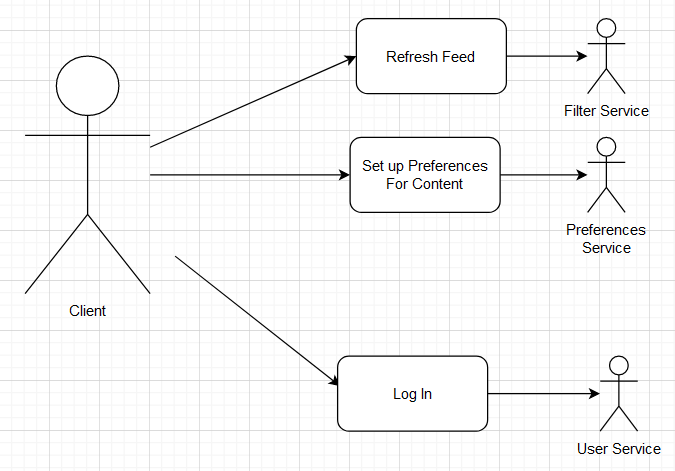
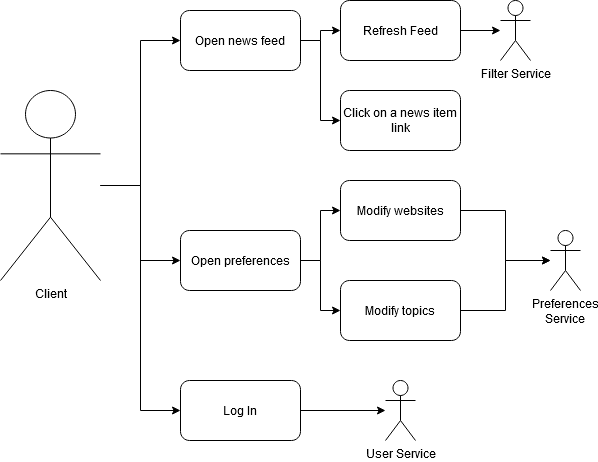
work on new docs

diff --git a/docs/index.html b/docs/index.html
@@ -46,7 +46,7 @@
                 tutorials, presentations, examples of source-code, news, events, etc.) from
                 multiple sources such as DevDocs, GitHub Pages, MDN Web Docs, Reddit, and others.
                 Using the Linked Data principles, the application will generate and expose for
-                human users and software – via a SPARQL endpoint – knowledge of interest for Web
+                human users and software - via a SPARQL endpoint - knowledge of interest for Web
                 developers according to various criteria: topic (e.g., a certain programming
                 language/paradigm, only guides/references about a specific framework), target
                 platform, purpose, geographical area, period of time, user preferences,...
@@ -83,8 +83,8 @@
                 </div>
               </div>
             </section>
-            <br/>
-            <br/>
+            <br />
+            <br />
             <section typeof="sa:preferenceService">
               <div class="card text-bg-light mb-3">
                 <div class="card-body">
@@ -96,8 +96,8 @@
                   </div>
                 </div>
               </div>
-              <br/>
-              <br/>
+              <br />
+              <br />
               <a href="./preferencesAPI/index.html">Link to OpenAPI</a>
             </section>
             <br>
@@ -123,8 +123,8 @@
                 <div class="card-body">
                   <h3 class="card-title">2.4 Database Structure</h3>
                   <br>
-                  <img src="./diagrams/database.png"/>
-                  
+                  <img src="./diagrams/database.png" />
+
                 </div>
               </div>
             </section>
@@ -138,7 +138,7 @@
         <div class="card text-bg-light mb-3">
           <div class="card-body">
             <h2 class="card-title">3. Use Case Diagram</h2>
-              <img src="./diagrams/C4_diagram.png"/>
+            <img src="./diagrams/C4_diagram.png" />
           </div>
         </div>
       </section>
@@ -150,8 +150,8 @@
         <div class="card text-bg-light mb-3">
           <div class="card-body">
             <h2 class="card-title">4. Frontend Mockup</h2>
-              <img src="./diagrams/main_page.png"/>
-              <img src="./diagrams/preferences_page.png"/>
+            <img src="./diagrams/main_page.png" />
+            <img src="./diagrams/preferences_page.png" />
 
           </div>
         </div>
@@ -196,14 +196,17 @@
             <h2 class="card-title">6. Retrieving Data</h2>
             <blockquote>
               <p>
-                We'll use a web scraping service to get the data from the following sources: Reddit, DevDocs, MDN Web
-                Docs, GitHub Pages. <br />
-                We will then process the retrieved data and create RDF triples in accordance with Linked Data
+                We use a web scraping service to get the data from the following sources: Reddit, MDN Web
+                Docs, GitHub Topics. <br />
+                We then process the retrieved data and create RDF triples in accordance with Linked Data
                 principles. <br />
-                These RDF triples will represent the relationships and attributes of the collected data, allowing for
+                These RDF triples represent the relationships and attributes of the collected data, allowing for
                 seamless integration into our triplestore.
-                Once the RDF triples are prepared, we will load them into the selected triplestore,
+                Once the RDF triples are prepared, we load them into the selected triplestore,
                 ensuring that our SPARQL endpoint is populated with the interconnected data. <br />
+                After that, we can query the SPARQL endpoint to retrieve the data and present it to the user in the
+                frontend of our application.
+
               </p>
             </blockquote>
 
@@ -231,83 +234,140 @@
                 <li>PREFIX tl: http://purl.org/NET/c4dm/timeline.owl#</li>
                 <li>PREFIX event: http://purl.org/NET/c4dm/event.owl#</li>
                 <li>PREFIX foaf: http://xmlns.com/foaf/0.1/</li>
+                <li>PREFIX ns1: http://wade-project.org/news#</li>
 
               </ul>
-              We will create an ontology that we can use to model the data we collect from the various sources. For example: <br />
+              We will create an ontology that we can use to model the data we collect from the various sources. For
+              example: <br />
               <pre>
-schema:WebDevelopment rdf:type rdf:Class ;
-    rdfs:label "Web Development" .
+ns1:NewsItem rdf:type rdf:Class ;
+rdfs:label "News Item" .
 
-schema:Tutorial rdf:type rdf:Class ;
-    rdfs:label "Tutorial" ;
-    rdfs:subClassOf schema:CreativeWork .
+ns1:link rdf:type rdf:Property ;
+    rdfs:label "link" ;
+    rdfs:domain ns1:NewsItem ;
+    rdfs:range schema:URL .
 
-schema:ProgrammingLanguage rdf:type rdf:Class ;
-    rdfs:label "Programming Language" .
+ns1:origin rdf:type rdf:Property ;
+    rdfs:label "origin" ;
+    rdfs:domain ns1:NewsItem ;
+    rdfs:range rdf:Literal .
 
-    schema:hasTopic rdf:type rdf:Property ;
-    rdfs:label "hasTopic" ;
-    rdfs:domain schema:Tutorial ;
-    rdfs:range schema:ProgrammingLanguage .
+ns1:title rdf:type rdf:Property ;
+    rdfs:label "title" ;
+    rdfs:domain ns1:NewsItem ;
+    rdfs:range rdf:Literal .
 
-schema:fromSource rdf:type rdf:Property ;
-    rdfs:label "fromSource" ;
-    rdfs:domain schema:Tutorial ;
-    rdfs:range schema:WebDevelopment .
-              </pre>
+ns1:topic rdf:type rdf:Property ;
+    rdfs:label "topic" ;
+    rdfs:domain ns1:NewsItem ;
+    rdfs:range rdf:Literal .
+
+# Examples:
+ns1:CSS_Nesting rdf:type ns1:NewsItem ;
+    ns1:link <https://developer.mozilla.org/en-US/docs/Web/CSS/CSS_nesting> ;
+    ns1:origin "mozilla" ;
+    ns1:title "CSS nesting" ;
+    ns1:topic "tutorials" .
+
+ns1:DOS_Wasm_X rdf:type ns1:NewsItem ;
+    ns1:link <https://www.neilb.net/doswasmx/> ;
+    ns1:origin "reddit" ;
+    ns1:title "DOS Wasm X: a new web based DOS Emulator" ;
+    ns1:topic "javascript" .
+  </pre>
               </p>
             </blockquote>
 
           </div>
         </div>
-            <br>
-    <div class="row">
-      <section typeof="sa:External Data Sources">
-        <div class="card text-bg-light mb-3">
-          <div class="card-body">
-            <h2 class="card-title">8. Bibliography</h2>
-            <blockquote>
-              <p>
-                <ul>
-                  <li typeof="schema:WebPage" role="doc-biblioentry" resource="https://www.w3.org/TR/sparql11-protocol/" property="schema:citation" id="sparql-proto">
-                    <cite property="schema:name">
-                      <a href="https://www.w3.org/TR/sparql11-protocol/">The SPARQL 1.1 Protocol</a>
-                    </cite>
-                  </li>
-
-                  <li typeof="schema:WebPage" role="doc-biblioentry" resource="https://www.w3.org/RDF/" property="schema:citation" id="rdf">
-                    <cite property="schema:name">
-                      <a href="https://www.w3.org/RDF/">RDF (Resource Description Framework) standard model</a>
-                    </cite>
-                  </li>
-
-                  <li typeof="schema:WebPage" role="doc-biblioentry" resource="https://schema.org/" property="schema:citation" id="schemaorg">
-                    <cite property="schema:name">
-                      <a href="https://schema.org/">The schema.org vocabulary</a>
-                    </cite>
-                  </li>
-                  <li typeof="schema:WebPage" role="doc-biblioentry" resource="https://schema.org/" property="schema:citation" id="schemaorg">
-                    <cite property="schema:name">
-                      <a href="https://reddit.com/r/programming/">Reddit Programming Subreddit</a>
-                    </cite>
-                  </li>
-                  <li typeof="schema:WebPage" role="doc-biblioentry" resource="https://schema.org/" property="schema:citation" id="schemaorg">
-                    <cite property="schema:name">
-                      <a href="https://devdocs.io/">Dev Docs</a>
-                    </cite>
-                  </li>
-                  <li typeof="schema:WebPage" role="doc-biblioentry" resource="https://schema.org/" property="schema:citation" id="schemaorg">
-                    <cite property="schema:name">
-                      <a href="https://developer.mozilla.org/en-US/">MDN Web Docs</a>
-                    </cite>
-                  </li>
+        <br>
+        <div class="row">
+          <section typeof="sa:External Data Sources">
+            <div class="card text-bg-light mb-3">
+              <div class="card-body">
+                <h2 class="card-title">8. User Manual</h2>
+                <blockquote>
+                  <p>
+                    The user is able to login and register using the User Service. <br />
+                    After logging in, the user can access the preferences page, where they can select the topics they
+                    are interested in.
+                  <ul>
+                    <li>Each user has their own preferences, which are stored in the Preference Service and are
+                      used to filter the news items retrieved from the SPARQL endpoint.</li>
+                    <li>Preferences can be changed at any time in order to refresh the feed.</li>
                   </ul>
-            </blockquote>
+                  <br />
+                  When accessing the main page, users can see the latest news regarding the topics and preferences they
+                  have selected.
+                  <ul>
+                    <li>These news are retrieved from the SPARQL endpoint and displayed in the frontend of the
+                      application.</li>
+                    <li>The user can also access the news from the sources they were retrieved from, by clicking on the
+                      link
+                      provided in the news item.</li>
+                  </ul>
 
-          </div>
+                  </p>
+                </blockquote>
+              </div>
+            </div>
+          </section>
         </div>
-      </section>
-    </div>
+
+        <div class="row">
+          <section typeof="sa:External Data Sources">
+            <div class="card text-bg-light mb-3">
+              <div class="card-body">
+                <h2 class="card-title">9. Bibliography</h2>
+                <blockquote>
+                  <p>
+                  <ul>
+                    <li typeof="schema:WebPage" role="doc-biblioentry"
+                      resource="https://www.w3.org/TR/sparql11-protocol/" property="schema:citation" id="sparql-proto">
+                      <cite property="schema:name">
+                        <a href="https://www.w3.org/TR/sparql11-protocol/">The SPARQL 1.1 Protocol</a>
+                      </cite>
+                    </li>
+
+                    <li typeof="schema:WebPage" role="doc-biblioentry" resource="https://www.w3.org/RDF/"
+                      property="schema:citation" id="rdf">
+                      <cite property="schema:name">
+                        <a href="https://www.w3.org/RDF/">RDF (Resource Description Framework) standard model</a>
+                      </cite>
+                    </li>
+
+                    <li typeof="schema:WebPage" role="doc-biblioentry" resource="https://schema.org/"
+                      property="schema:citation" id="schemaorg">
+                      <cite property="schema:name">
+                        <a href="https://schema.org/">The schema.org vocabulary</a>
+                      </cite>
+                    </li>
+                    <li typeof="schema:WebPage" role="doc-biblioentry" resource="https://schema.org/"
+                      property="schema:citation" id="schemaorg">
+                      <cite property="schema:name">
+                        <a href="https://reddit.com/r/programming/">Reddit Programming Subreddit</a>
+                      </cite>
+                    </li>
+                    <li typeof="schema:WebPage" role="doc-biblioentry" resource="https://schema.org/"
+                      property="schema:citation" id="schemaorg">
+                      <cite property="schema:name">
+                        <a href="https://devdocs.io/">Dev Docs</a>
+                      </cite>
+                    </li>
+                    <li typeof="schema:WebPage" role="doc-biblioentry" resource="https://schema.org/"
+                      property="schema:citation" id="schemaorg">
+                      <cite property="schema:name">
+                        <a href="https://developer.mozilla.org/en-US/">MDN Web Docs</a>
+                      </cite>
+                    </li>
+                  </ul>
+                </blockquote>
+
+              </div>
+            </div>
+          </section>
+        </div>
       </section>
     </div>
   </div>
